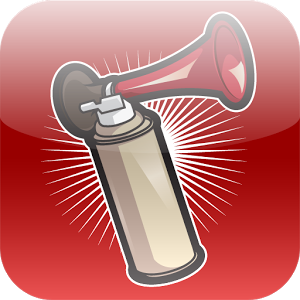
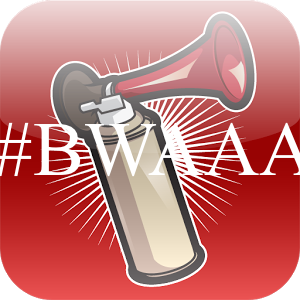
add gif feature

diff --git a/style.css b/style.css
@@ -1,12 +1,13 @@
 .bwa {
   height: 300px;
   width: 300px;
-  background-image: url("pic.png");
+  background-image: url("file1.gif");
+  background-size: 100%;
   border-radius: 20%;
   margin: 0 auto;
-  color: white;
+  color: black;
   text-align : center;
-  line-height: 330px;
+  line-height: 410px;
   font-size: 4.5em;
   margin-top: 10%;
   -webkit-touch-callout: none;
@@ -15,6 +16,10 @@
   -moz-user-select: none;
   -ms-user-select: none;
   user-select: none;
+}
+
+.horn {
+  border-radius: 20%;
 }
 
 .count {

diff --git a/index.html b/index.html
@@ -10,7 +10,7 @@
 </head>
 <body>
 
-	<div class="bwa">#BWAAA</div>
+	<div class="bwa"><img class="horn" src="pic.png"></div>
 	<div class="count"></div>
   <div class="reset">
     <button class="button" style='font-size: 1em;'>Reset</button>

diff --git a/script.js b/script.js
@@ -14,6 +14,7 @@ $(document).ready(function() {
   $(".bwa").click(function() {
     snd.play();
     snd.currentTime=0;
+    $(".horn").fadeTo(50, 0.25);
     $(this).fadeOut(50);
     $(this).fadeIn(50);
     counter += 1;
